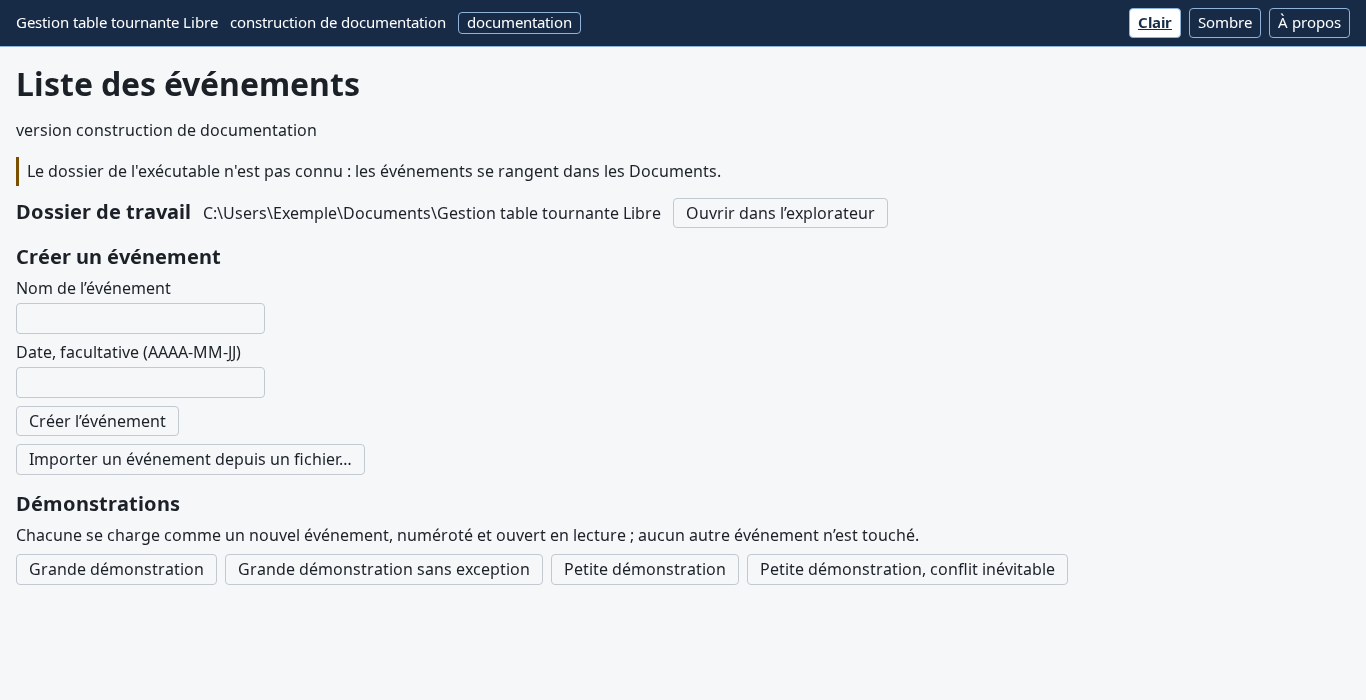
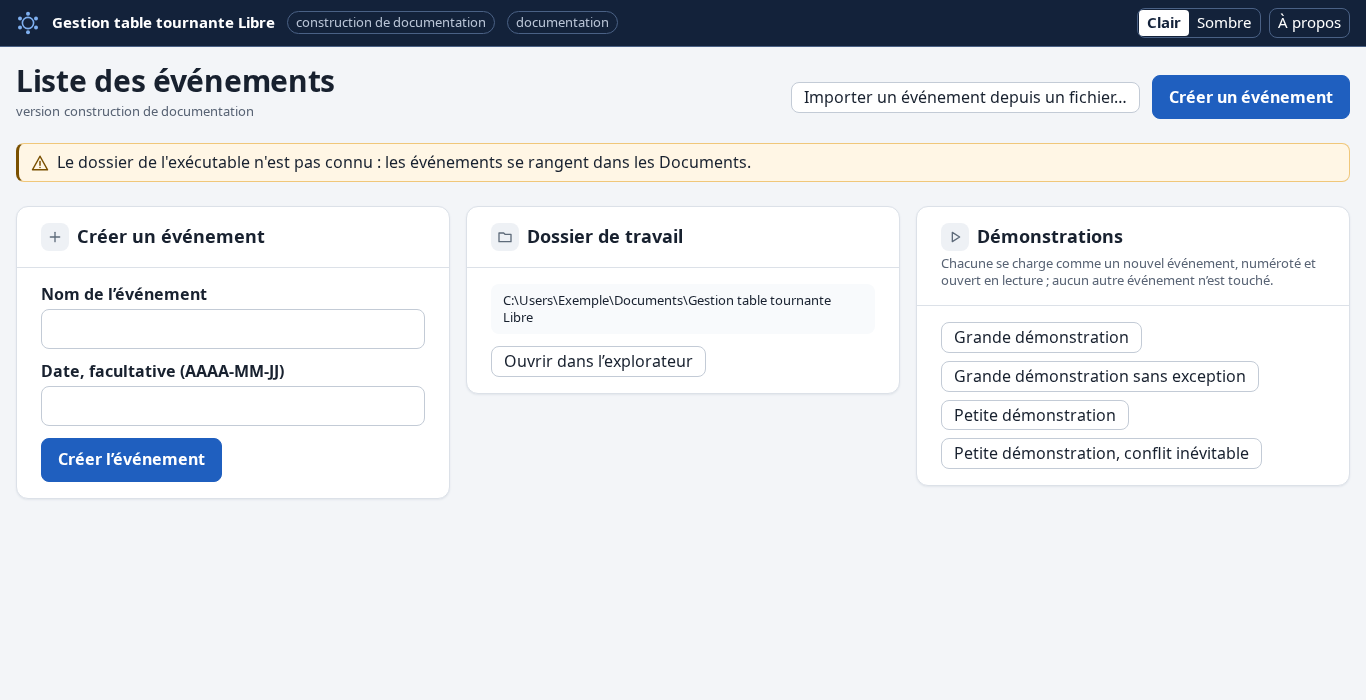
[UPD] captures: redesigned screens, walkthrough checks a warning action
The walkthrough images and their manifest show the redesigned screens,
and the README regenerates from them. Before step 04 is captured, the
walkthrough now checks that the warning zone does not scroll and that
« Ouvrir les tables » sits inside it: a capture only refreshes when the
step's text changes, so a layout regression could hide behind an old
image. Print captures are unchanged.
Checked: node 4012, browser 872, long 105, walkthrough 34/34.

--- FR ---

[UPD] captures : écrans refondus, le parcours vérifie l'action d'un avis

Les images du parcours et leur manifeste montrent les écrans refondus,
et le README s'en régénère. Avant la capture de l'étape 04, le parcours
vérifie que la zone des avis ne défile pas et que « Ouvrir les tables »
y tient : une capture ne se renouvelle que si le texte de l'étape
change, une régression de mise en page pourrait se cacher derrière une
image ancienne. Les captures imprimées ne changent pas.
Vérifié : node 4012, navigateur 872, long 105, parcours 34/34.

Assisted-by: Claude Opus 5.5

diff --git a/src/interface/parcours.navigateur.test.js b/src/interface/parcours.navigateur.test.js
@@ -992,6 +992,17 @@ describe('le parcours par gestes, depuis un répertoire neuf', { timeout: DUREE 
     document.activeElement?.blur();
     enHaut(section().querySelector('[role="grid"]'));
     await images(2);
+    // L'avertissement des places manquantes, à côté de la tête, se lit en
+    // entier, son bouton compris : la zone des annonces ne défile pas, et
+    // le bouton tient dans sa boîte visible.
+    const zone = dans('[data-annonces]');
+    const bouton = zone.querySelector('[data-avertissement="PLACES_MANQUANTES"] button[data-commande]');
+    expect(bouton, 'le bouton de l’avertissement').not.toBeNull();
+    expect(zone.scrollHeight, 'la zone des annonces ne défile pas').toBeLessThanOrEqual(zone.clientHeight + 1);
+    const visibleZone = zone.getBoundingClientRect();
+    const boiteBouton = bouton.getBoundingClientRect();
+    expect(boiteBouton.top, 'le haut du bouton dans la zone').toBeGreaterThanOrEqual(visibleZone.top + zone.clientTop - 0.5);
+    expect(boiteBouton.bottom, 'le bas du bouton dans la zone').toBeLessThanOrEqual(visibleZone.top + zone.clientTop + zone.clientHeight + 0.5);
     await photographier(m, '04-grille-participants', {
       condition: ['[data-section="participants"] [data-champ="filtre"]', '[data-section="participants"] [data-commande="trier"][data-cible="nom"]'],
     });

diff --git a/README.md b/README.md
@@ -81,29 +81,33 @@ sur les captures.
 
 | Jeton | Rôle | Seuil | Thème clair | Capture | Thème sombre | Capture |
 |---|---|---|---|---|---|---|
-| `--couleur-bandeau-fond` | texte | 4,5 | 14,26 | 01-premier-ecran | 12,84 | 01-premier-ecran |
-| `--couleur-bandeau-texte` | texte | 4,5 | 13,44 | 19-ajustement | 12,84 | 01-premier-ecran |
-| `--couleur-cadre-ecriture` | marque | 3 | 4,78 | 02-import-apercu | 9,10 | 02-import-apercu |
-| `--couleur-cadre-lecture` | marque | 3 | 5,29 | 01b-passer-en-ecriture | 7,34 | 01b-passer-en-ecriture |
-| `--couleur-chaise-pleine` | marque | 3 | 15,38 | 07a-cibles-sieges | 14,94 | 07a-cibles-sieges |
-| `--couleur-chaise-trait` | marque | 3 | 7,58 | 07-plan-tables | 8,13 | 22-plan-brouillon |
+| `--couleur-action-texte` | texte | 4,5 | — | — | 8,45 | 01-premier-ecran |
+| `--couleur-avis` | texte | 4,5 | 6,58 | 03-import-rapport | 8,93 | 03-import-rapport |
+| `--couleur-bandeau-fond` | texte | 4,5 | 15,94 | 01-premier-ecran | 12,84 | 01-premier-ecran |
+| `--couleur-bandeau-texte` | texte | 4,5 | 6,09 | 01-premier-ecran | 12,84 | 01-premier-ecran |
+| `--couleur-bandeau-texte-secondaire` | texte | 4,5 | 9,05 | 01-premier-ecran | 7,60 | 01-premier-ecran |
+| `--couleur-cadre-ecriture` | marque | 3 | 4,69 | 02-import-apercu | 9,10 | 02-import-apercu |
+| `--couleur-cadre-lecture` | marque | 3 | 5,19 | 01b-passer-en-ecriture | 7,34 | 01b-passer-en-ecriture |
+| `--couleur-chaise-pleine` | marque | 3 | 15,09 | 07a-cibles-sieges | 14,94 | 07a-cibles-sieges |
+| `--couleur-chaise-trait` | marque | 3 | 7,44 | 07-plan-tables | 8,13 | 22-plan-brouillon |
 | `--couleur-conflit-appartenance` | marque | 3 | 8,92 | 20-mode-lecture | 6,81 | 20-mode-lecture |
-| `--couleur-contour-fort` | marque | 3 | 12,54 | 20-mode-lecture | 11,62 | 20-mode-lecture |
-| `--couleur-echelle` | marque | 3 | 15,10 | 07-plan-tables | 14,62 | 07-plan-tables |
+| `--couleur-contour-fort` | marque | 3 | 12,30 | 20-mode-lecture | 11,62 | 20-mode-lecture |
+| `--couleur-echelle` | marque | 3 | 14,82 | 07-plan-tables | 14,62 | 07-plan-tables |
 | `--couleur-fantome` | marque | 3 | 4,34 | 19-ajustement | 4,10 | 19-ajustement |
 | `--couleur-filigrane` | marque | 3 | 5,10 | 22-plan-brouillon | 5,10 | 22-plan-brouillon |
 | `--couleur-hachure` | marque | 3 | 16,48 | 08-animateurs-designes | 15,21 | 08-animateurs-designes |
+| `--couleur-liste-texte` | texte | 4,5 | 14,82 | 07-plan-tables | — | — |
 | `--couleur-marque` | marque | 3 | 3,63 | 07a-cibles-sieges | 3,50 | 07a-cibles-sieges |
-| `--couleur-page-texte` | texte | 4,5 | 15,10 | 01-premier-ecran | 11,39 | 19-ajustement |
-| `--couleur-page-texte-secondaire` | texte | 4,5 | 7,05 | 10-diagnostic | 7,98 | 10-diagnostic |
-| `--couleur-papier` | texte | 4,5 | — | — | 5,33 | 09-refus-sur-place |
+| `--couleur-page-texte` | texte | 4,5 | 13,78 | 01b-passer-en-ecriture | 11,02 | 11-propositions |
+| `--couleur-page-texte-secondaire` | texte | 4,5 | 5,57 | 01-premier-ecran | 6,72 | 01b-passer-en-ecriture |
+| `--couleur-papier` | texte | 4,5 | — | — | 13,44 | 22-plan-brouillon |
 | `--couleur-pastille-fond` | marque | 3 | 13,44 | 19-ajustement | 11,62 | 19-ajustement |
 | `--couleur-pastille-texte` | texte | 4,5 | — | — | 14,51 | 19-ajustement |
-| `--couleur-poignee` | marque | 3 | 7,58 | 07-plan-tables | 11,32 | 07-plan-tables |
-| `--couleur-refus` | texte | 4,5 | 8,76 | 01b-passer-en-ecriture | 9,24 | 01b-passer-en-ecriture |
-| `--couleur-selection` | marque | 3 | 4,66 | 08-animateurs-designes | 4,18 | 08-animateurs-designes |
-| `--couleur-table-trait` | marque | 3 | 7,58 | 07-plan-tables | 5,59 | 07-plan-tables |
-| `rgb(0, 0, 0)` | texte | 4,5 | 18,26 | 09-refus-sur-place | — | — |
+| `--couleur-poignee` | marque | 3 | 7,44 | 07-plan-tables | 11,32 | 07-plan-tables |
+| `--couleur-refus` | texte | 4,5 | 8,34 | 01b-passer-en-ecriture | 8,14 | 01b-passer-en-ecriture |
+| `--couleur-selection` | marque | 3 | 4,57 | 08-animateurs-designes | 4,18 | 08-animateurs-designes |
+| `--couleur-table-trait` | marque | 3 | 7,44 | 07-plan-tables | 5,59 | 07-plan-tables |
+| `rgb(24, 33, 47)` | texte | 4,5 | — | — | 16,19 | 22-plan-brouillon |
 | `rgb(28, 33, 40)` | texte | 4,5 | — | — | 16,18 | 22-plan-brouillon |
 
 <!-- engendre:fin contrastes -->
